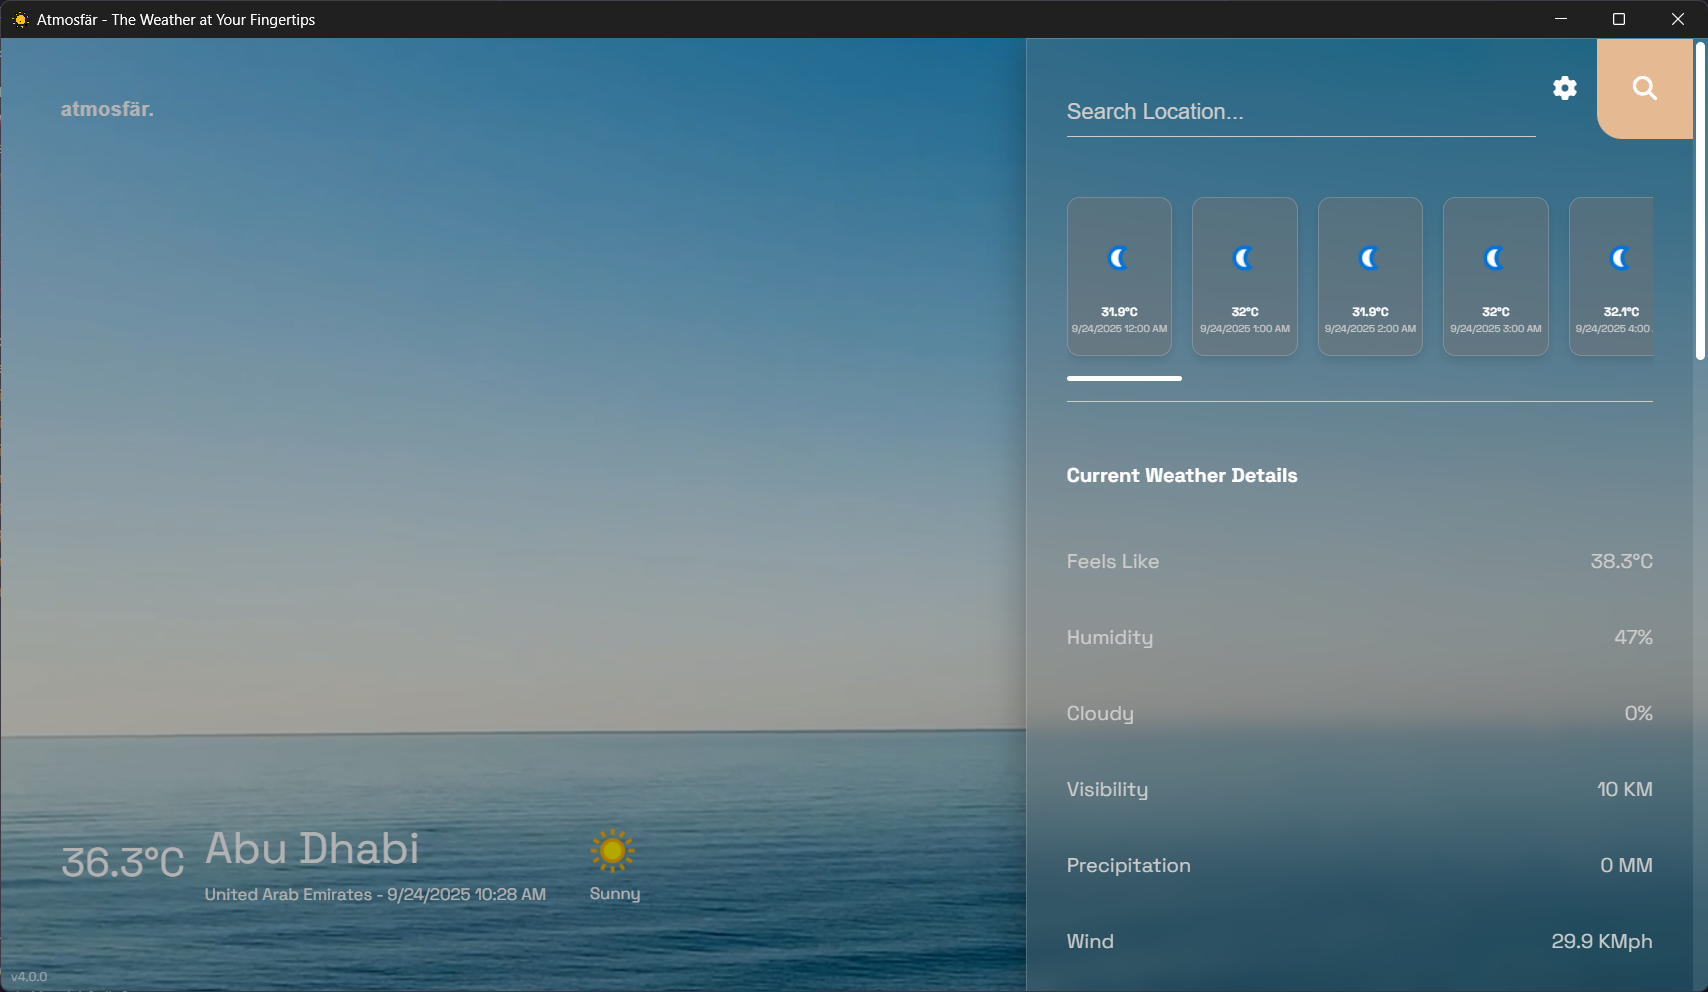
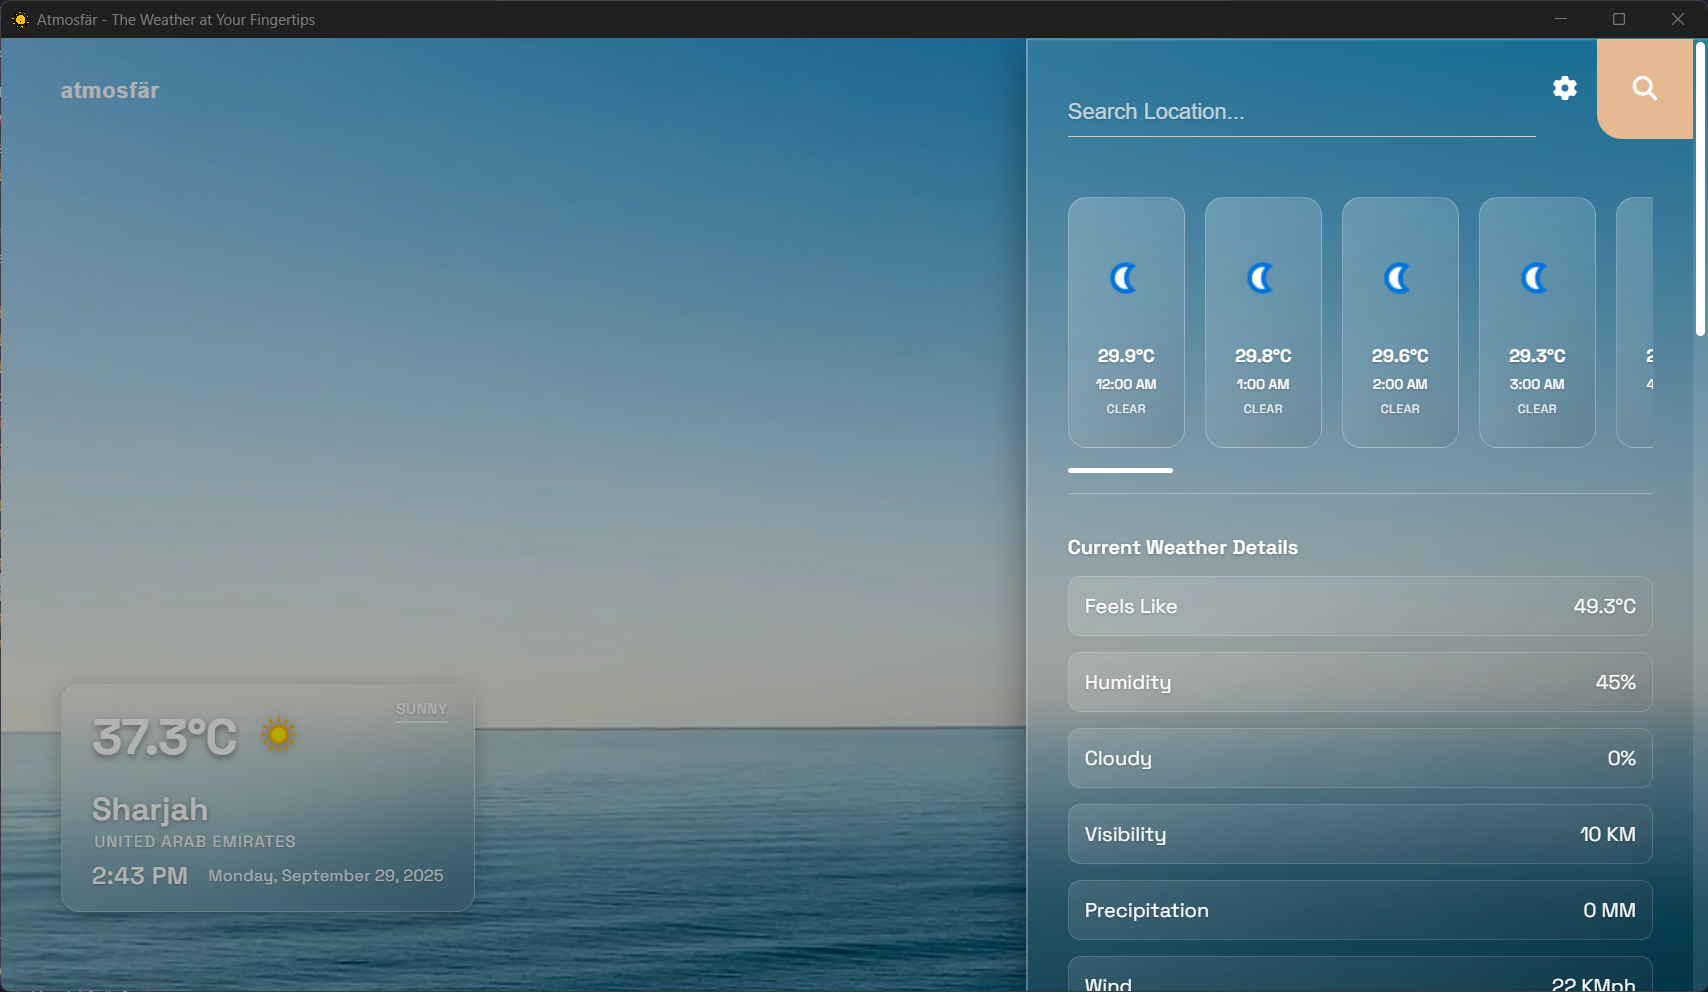
🔖 | v4.2.0

diff --git a/CHANGELOG.md b/CHANGELOG.md
@@ -7,6 +7,43 @@ and this project adheres to [Semantic Versioning](https://semver.org/spec/v2.0.0
 
 ---
 
+## [4.2.0] - 2025-09-29
+
+### 📸 Before & After
+
+<div align="center">
+  <table>
+    <tr>
+      <td align="center"><strong>Before (v4.0.x)</strong></td>
+      <td align="center"><strong>After (v4.2.0)</strong></td>
+    </tr>
+    <tr>
+      <td><img src="./assets/AppScreenshotOld.png" alt="Old Design" width="400"></td>
+      <td><img src="./assets/AppScreenshot.png" alt="New Design" width="400"></td>
+    </tr>
+  </table>
+</div>
+
+### ✨ Added
+- Modern glassmorphism design throughout the app
+- New weather data: Windchill, Heat Index, and Dew Point
+- Web installer and offline installer options
+- Enhanced loading screen with improved animation
+
+### 🔄 Changed
+- Redesigned weather display with cleaner, compact layout
+- Search now only triggers on button click or Enter key
+- Removed automatic search while typing for better performance
+- Polished weather cards and hourly forecast styling
+
+### 🐛 Fixed
+- Loading screen positioning issues
+- Weather display layout problems
+- Improved app stability and reliability
+- Better responsiveness across devices
+
+---
+
 ## [4.0.1] - 2025-09-25
 
 ### ✨ Added
